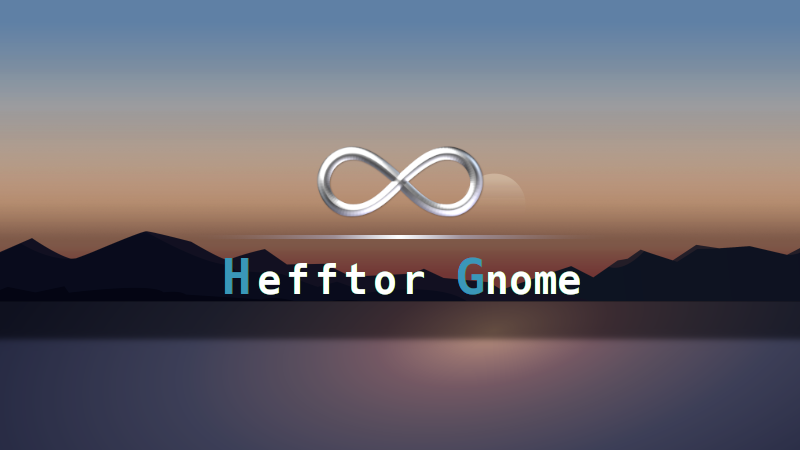
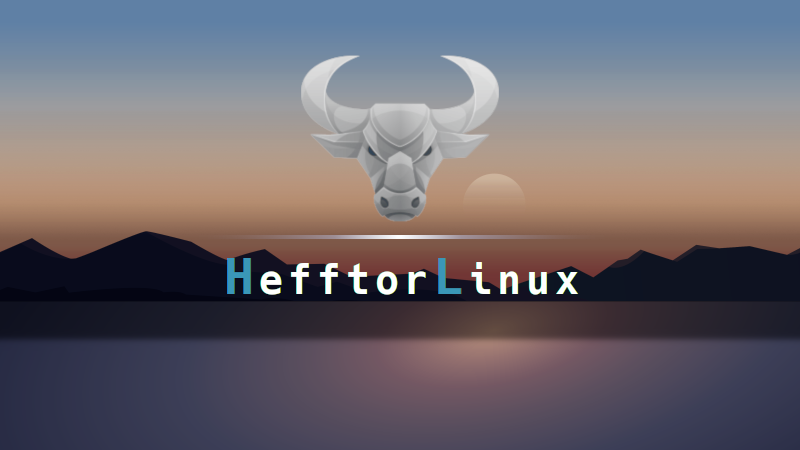
u

Changed region(s): [[0.375, 0.1244, 0.625, 0.4978], [0.2812, 0.56, 0.75, 0.6533]]

diff --git a/calamares/branding/hefftorlinux/show.qml b/calamares/branding/hefftorlinux/show.qml
@@ -41,10 +41,22 @@ Presentation
 
         Image {
             id: background1
-            source: "calamares-0.png"
-            width: 800; height: 350
+            source: "calamares-1.png"
+            width: 1000; height: 625
             fillMode: Image.PreserveAspectFit
 			      anchors.centerIn: parent
+        }
+
+    }
+
+    Slide {
+
+        Image {
+            id: background2
+            source: "calamares-2.png"
+            width: 1000; height: 625
+            fillMode: Image.PreserveAspectFit
+                  anchors.centerIn: parent
         }
 
     }
